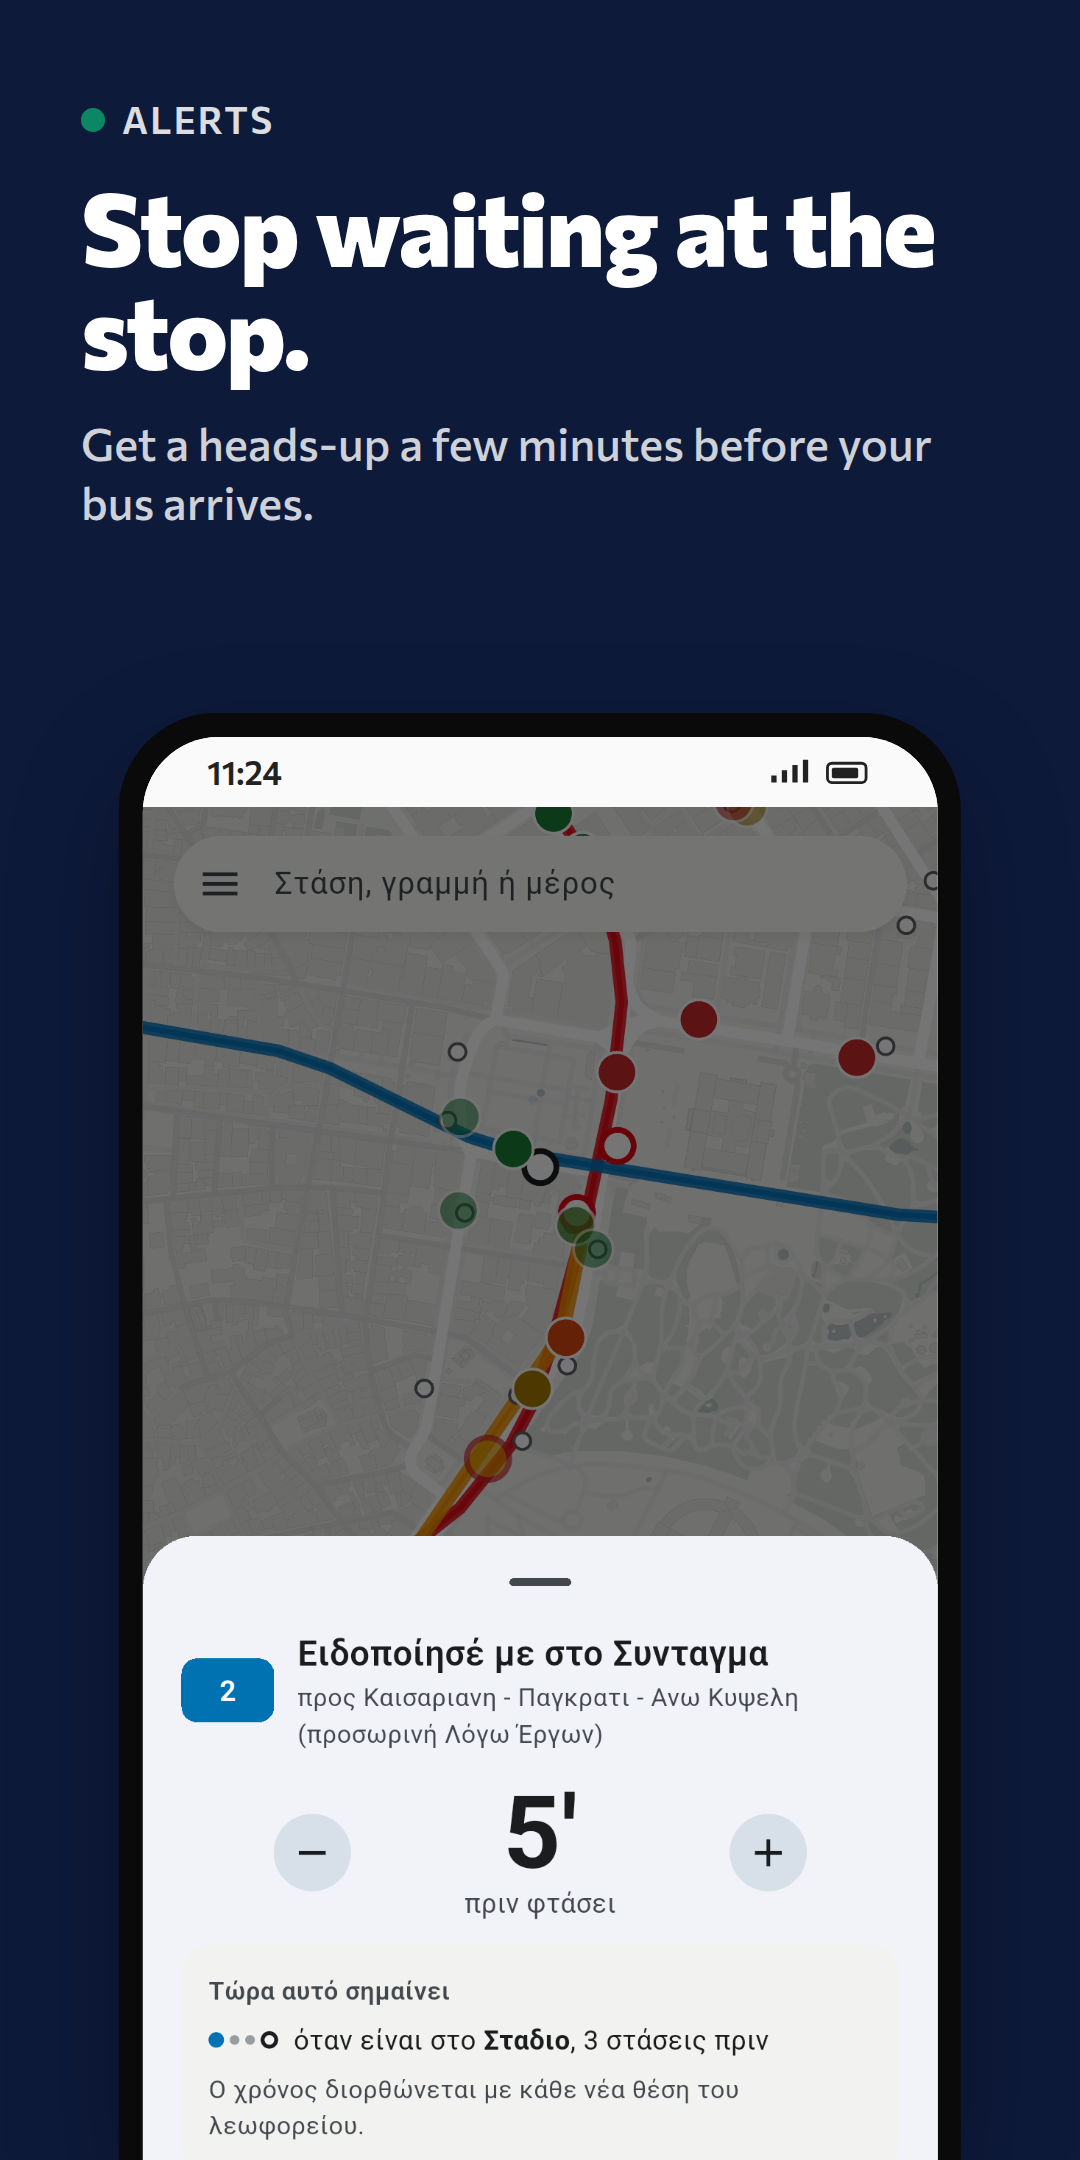
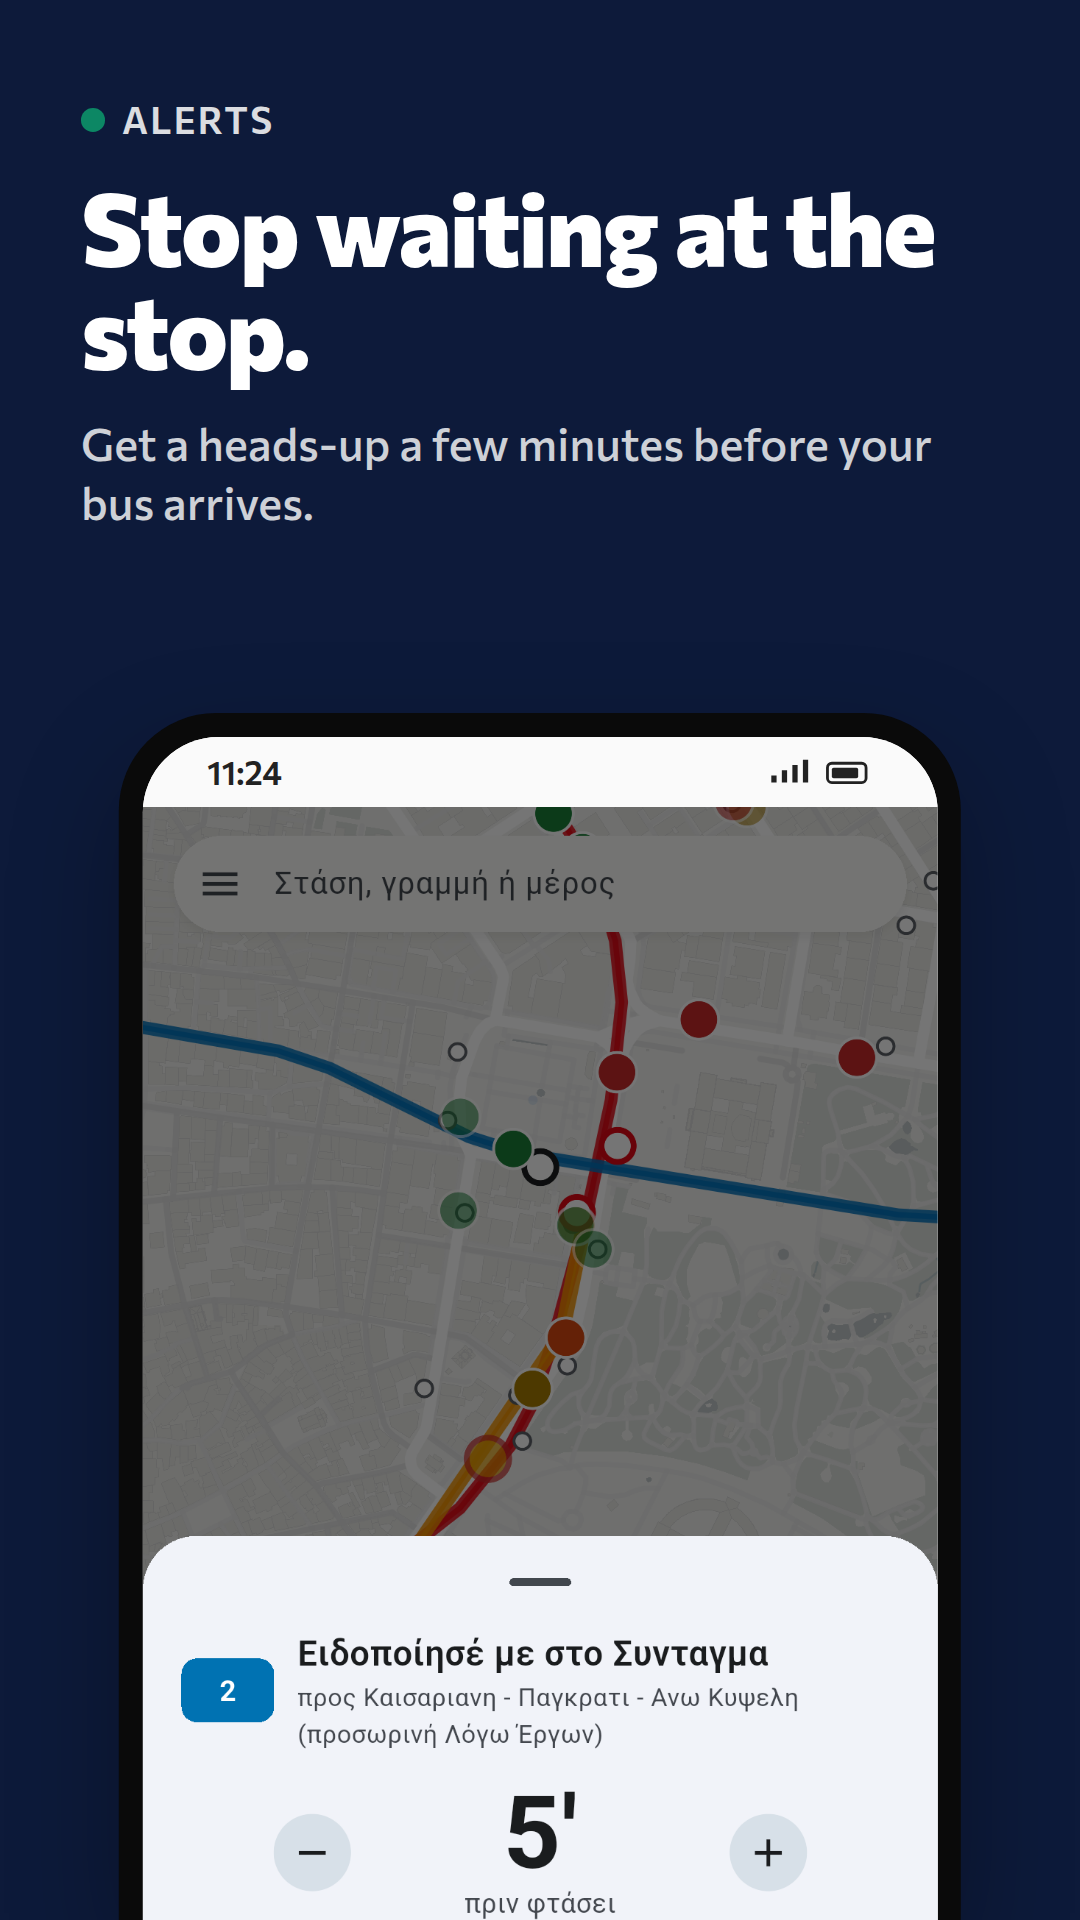
Store: Play screenshots at 1080x1920 (9:16)
Play Console asks for 9:16 phone screenshots; the 1080x2160 set is 1:2.
Same slides, the phone is cropped a little more at the bottom. iOS set unchanged.

diff --git a/docs/store/SUBMISSION.md b/docs/store/SUBMISSION.md
@@ -63,8 +63,8 @@
 
 | Τι | Μέγεθος | Link |
 |---|---|---|
-| Play screenshots, Ελληνικά (5: 01-05.png) | 1080×2160 | https://github.com/angelospk/athens-transit-app/tree/main/docs/store/screenshots/play/el |
-| Play screenshots, English (5) | 1080×2160 | https://github.com/angelospk/athens-transit-app/tree/main/docs/store/screenshots/play/en |
+| Play screenshots, Ελληνικά (5: 01-05.png) | 1080×1920 (9:16) | https://github.com/angelospk/athens-transit-app/tree/main/docs/store/screenshots/play/el |
+| Play screenshots, English (5) | 1080×1920 (9:16) | https://github.com/angelospk/athens-transit-app/tree/main/docs/store/screenshots/play/en |
 | iPhone 6.9" screenshots, Ελληνικά (4: 01-04.png) | 1320×2868 | https://github.com/angelospk/athens-transit-app/tree/main/docs/store/screenshots/ios/el |
 | iPhone 6.9" screenshots, English (4) | 1320×2868 | https://github.com/angelospk/athens-transit-app/tree/main/docs/store/screenshots/ios/en |
 | Play εικονίδιο | 512×512 | https://raw.githubusercontent.com/angelospk/athens-transit-app/main/docs/store/graphics/icon-512.png |

diff --git a/docs/store/listing.md b/docs/store/listing.md
@@ -227,7 +227,7 @@ Hellenic Train. Data comes from their public sources.
 |---|---|---|
 | Play icon | 512×512 PNG | από το `ios/.../Icon-App-1024x1024@1x.png` |
 | Play feature graphic | 1024×500 | νέο |
-| Play screenshots | 1080×2160 | `docs/store/screenshots/play/el/`, `.../play/en/` |
+| Play screenshots | 1080×1920 (9:16) | `docs/store/screenshots/play/el/`, `.../play/en/` |
 | iOS screenshots | 6.9" (1320×2868) | `docs/store/screenshots/ios/el/`, `.../ios/en/` (λήψεις από iPhone simulator) |
 
 Τα screenshots ξαναβγαίνουν με `docs/store/screenshots/src/render.sh`. Οι λήψεις του Play είναι από
